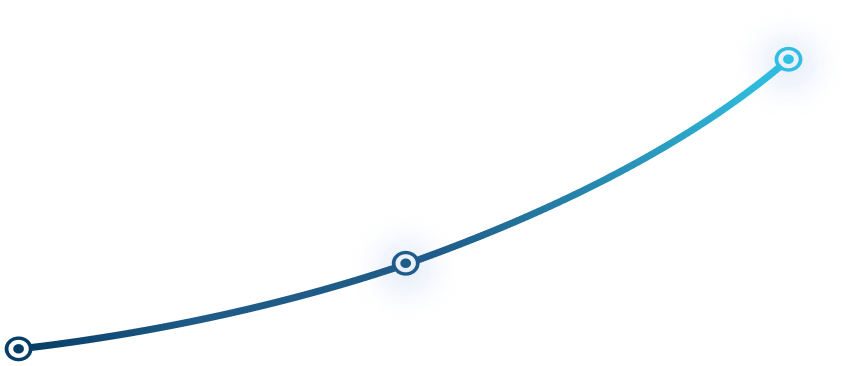
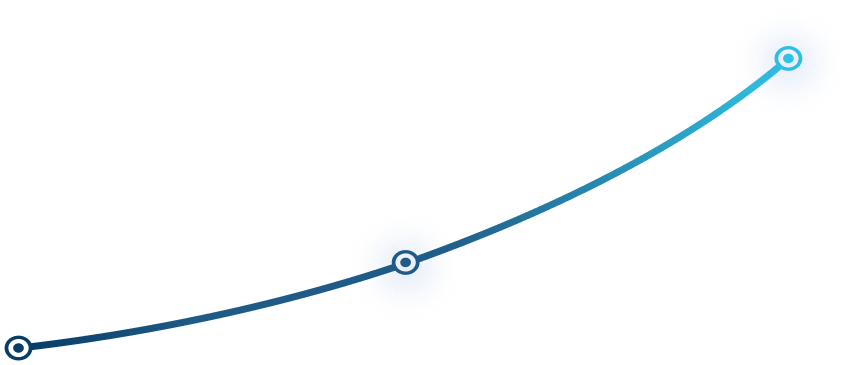
feat: roadmap structure && random styles

diff --git a/src/layout/home/roadmap/Roadmap.module.css b/src/layout/home/roadmap/Roadmap.module.css
@@ -5,16 +5,20 @@
   flex-direction: column;
   align-items: center;
   justify-content: center;
-  text-align: start;
+  margin-top: 10rem;
+  background-image: url('../../../assets/images/roadmap/roadmap_bg_dark_mobile.png');
+  background-position: center;
+  padding-bottom: 600px;
+  background-repeat: no-repeat;
+  background-size: cover;
 }
 .roadmap h2 {
-  width: 100%;
-  max-width: 1000px;
-  text-align: start;
+  text-align: center;
+  margin: 4rem 0;
 }
 .timeLine {
   position: absolute;
-  padding-top: 16rem;
+  padding-top: 24rem;
   margin: 0 auto;
   max-width: 1000px;
   display: flex;
@@ -22,7 +26,9 @@
   align-items: center;
 }
 .timeLine img {
+  display: none;
   width: 100%;
+  height: auto;
 }
 .list {
   left: 0;
@@ -36,6 +42,11 @@
 .list li {
   width: 100%;
   display: flex;
+  flex-direction: column;
+  align-items: center;
+}
+.list li img {
+  margin: 2rem 0;
 }
 .container {
   display: flex;
@@ -43,15 +54,46 @@
   align-items: center;
   text-align: center;
 }
-.tokenPresale {
-  justify-content: flex-start;
-}
-.tokenLaunch {
-  justify-content: center;
-}
-.exchangeLaunch {
-  justify-content: flex-end;
-}
 .date {
   color: var(--text-decoration-color);
+}
+
+@media screen and (min-width: 768px) {
+  .roadmap {
+    padding-bottom: 200px;
+    background-image: url('../../../assets/images/roadmap/roadmap_bg_dark_tablet.png');
+  }
+  .title {
+    width: 100%;
+    max-width: 1000px;
+    display: flex;
+    justify-content: flex-start;
+  }
+  .timeLine img {
+    display: block;
+  }
+  .list li img {
+    display: none;
+  }
+  .list li {
+    flex-direction: row;
+  }
+  .tokenPresale {
+    justify-content: flex-start;
+  }
+  .tokenLaunch {
+    justify-content: center;
+    transform: translateY(4rem);
+  }
+  .exchangeLaunch {
+    justify-content: flex-end;
+  }
+}
+
+@media screen and (min-width: 1440px) {
+  .roadmap {
+    padding: 200px 0;
+    background-position: center;
+    background-image: url('../../../assets/images/roadmap/roadmap_bg_dark_desktop.png');
+  }
 }

diff --git a/src/layout/home/roadmap/Roadmap.jsx b/src/layout/home/roadmap/Roadmap.jsx
@@ -1,7 +1,9 @@
 import styles from './Roadmap.module.css';
 import { useCountdown, CountdownTimer } from '@features';
-import timeLine from '@assets/images/roadmap/line_desktop.png';
+import timeLine from '@assets/images/roadmap/line_desktop.svg';
 import { GradientTitle } from '@components';
+import mobileLine1 from '@assets/images/roadmap/line_1_mobile.svg';
+import mobileLine2 from '@assets/images/roadmap/line_2_mobile.svg';
 
 export default function Roadmap() {
   const tokenPresaleDate = new Date('2025-01-05T00:00:00Z').getTime();
@@ -23,6 +25,7 @@ export default function Roadmap() {
             <p>iESCROW exchange launch</p>
             <span className={styles.date}>1st September 2025</span>
           </div>
+          <img src={mobileLine1} alt="decoration line" />
         </li>
 
         <li className={styles.tokenLaunch}>
@@ -32,6 +35,7 @@ export default function Roadmap() {
             <p>$ESCROW token launch</p>
             <span className={styles.date}>15th August 2025</span>
           </div>
+          <img src={mobileLine2} alt="decoration line" />
         </li>
 
         <li className={styles.tokenPresale}>

diff --git a/src/locales/i18n.js b/src/locales/i18n.js
@@ -12,6 +12,7 @@ i18n
     detection: {
       order: ['localStorage', 'navigator'],
       caches: ['localStorage'],
+      lookupLocalStorage: 'i18nextLng',
     },
     resources: {
       en: {
@@ -22,6 +23,8 @@ i18n
       },
     },
     fallbackLng: 'en',
+    supportedLngs: ['en', 'es'],
+    load: 'languageOnly',
     interpolation: {
       escapeValue: false,
     },

diff --git a/src/components/gradientTitle/GradientTitle.module.css b/src/components/gradientTitle/GradientTitle.module.css
@@ -6,7 +6,7 @@
   color: transparent;
   z-index: 1;
 }
-.gradientTitle::before {
+/* .gradientTitle::before {
   position: absolute;
   content: '';
   width: 300px;
@@ -19,4 +19,4 @@
   border-radius: 100%;
   background: linear-gradient(to right, var(--pink), var(--cian));
   filter: blur(16px);
-}
+} */

diff --git a/src/features/countdown/components/CountdownTimer.jsx b/src/features/countdown/components/CountdownTimer.jsx
@@ -11,7 +11,7 @@ export default function CountdownTimer({
   const { t } = useTranslation();
 
   if (!timeLeft) {
-    return <span>ha comenzado 🚀</span>;
+    return variant === 'sm' ? '' : <span>ha comenzado 🚀</span>;
   }
 
   const { days, hours, minutes, seconds } = timeLeft;

diff --git a/src/components/buttons/storeButton/StoreButton.module.css b/src/components/buttons/storeButton/StoreButton.module.css
@@ -3,7 +3,7 @@
   align-items: center;
   justify-content: flex-start;
   gap: 1rem;
-  padding: 0.8rem 1.5rem;
+  padding: 0.4rem 1.5rem;
   border: 2px solid var(--white);
   border-radius: 0.625rem;
   color: white;
